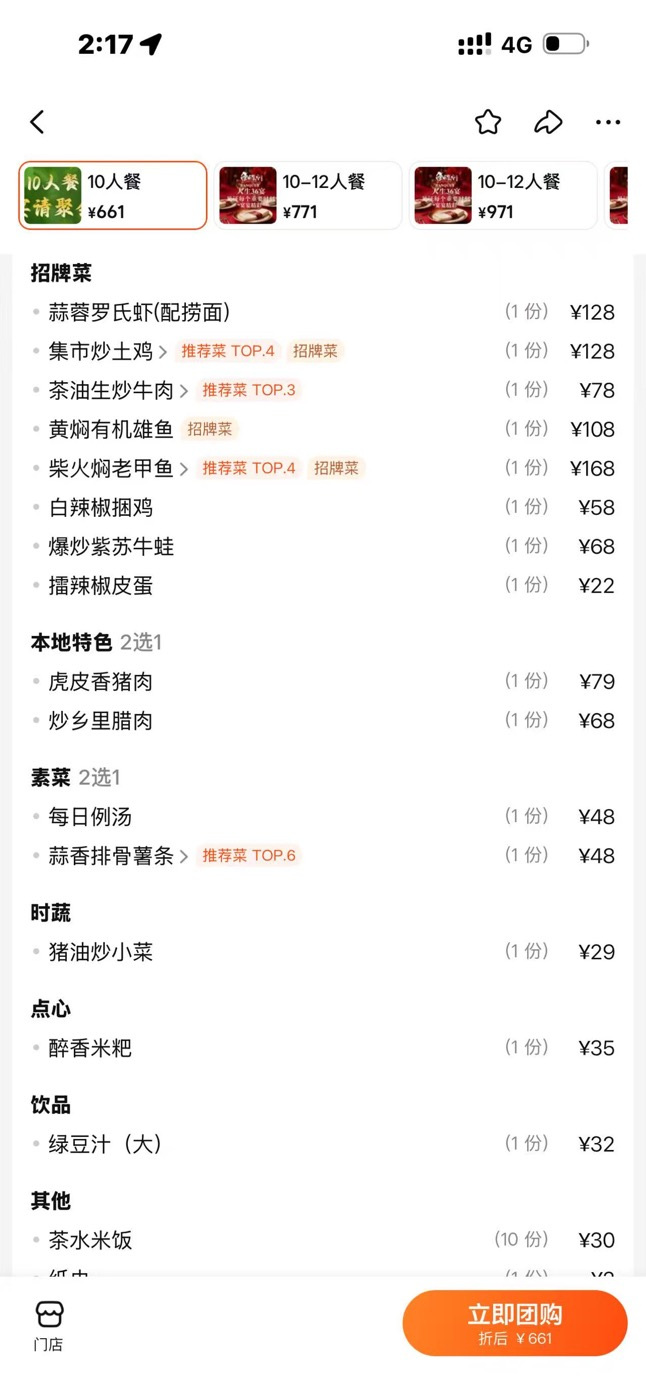
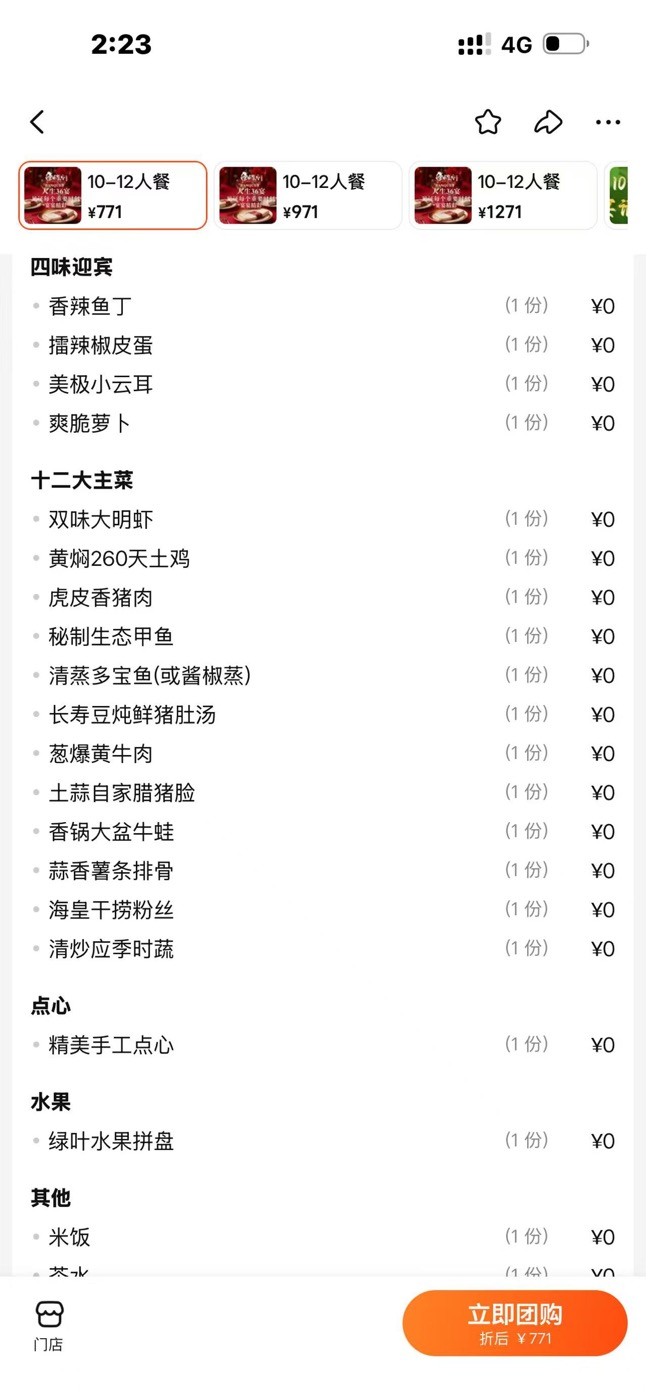
feat: 周六晚菜单换为10-12人餐套餐(771元×3桌)

diff --git a/data.js b/data.js
@@ -66,7 +66,7 @@ window.BOARD = {
     { item: "周六中午 桌餐", detail: "龙溪谷现代农庄 · 813元 × 3桌", cost: 2439, status: "confirmed", by: "我" },
     { item: "麻将台费", detail: "100元", cost: 100, status: "confirmed", by: "我" },
     { item: "茶水米饭", detail: "2元 × 30", cost: 60, status: "confirmed", by: "我" },
-    { item: "周六晚上 含浦集市", detail: "含浦集市 · 10人餐套餐 661元 × 3桌", cost: 1983, status: "confirmed", by: "我" }
+    { item: "周六晚上 含浦集市", detail: "含浦集市 · 10-12人餐套餐 771元 × 3桌", cost: 2313, status: "confirmed", by: "我" }
   ],
 
   // ---------- 周五菜单（在家用餐·暂定） ----------
@@ -94,12 +94,14 @@ window.BOARD = {
   satDinnerMenu: {
     venue: "含浦集市",
     tables: 3,
-    price: 661,
+    price: 771,
     formImg: "assets/menu-hanpu.jpg",
-    package: "10人餐套餐 · 清凉一夏",
-    dishes: ["蒜蓉罗氏虾(配捞面)","集市炒土鸡","茶油生炒牛肉","黄焖有机雄鱼","柴火焖老甲鱼","白辣椒捆鸡","爆炒紫苏牛蛙","擂辣椒皮蛋",
-             "本地特色2选1：虎皮香猪肉 / 炒乡里腊肉","素菜2选1：每日例汤 / 蒜香排骨薯条",
-             "猪油炒小菜","醉香米粑","绿豆汁(大)","茶水米饭"]
+    package: "10-12人餐套餐",
+    dishes: ["四味迎宾：香辣鱼丁 / 擂辣椒皮蛋 / 美极小云耳 / 爽脆萝卜",
+             "双味大明虾","黄焖260天土鸡","虎皮香猪肉","秘制生态甲鱼",
+             "清蒸多宝鱼（或酱椒蒸）","长寿豆炖鲜猪肚汤","葱爆黄牛肉","土蒜自家腊猪脸",
+             "香锅大盆牛蛙","蒜香薯条排骨","海皇干捞粉丝","清炒应季时蔬",
+             "精美手工点心","绿叶水果拼盘","米饭 · 茶水"]
   },
 
   // ---------- 交通 ----------
@@ -145,7 +147,7 @@ window.BOARD = {
       { item: "麻将台费",      unit: 100, qty: 1, cur: "CNY" },
       { item: "茶水米饭",      unit: 2,   qty: 30, cur: "CNY" },
       { item: "住宿费",        unit: 85,  qty: 12, cur: "CNY" },
-      { item: "周六晚上 含浦集市", unit: 661, qty: 3, cur: "CNY", note: "10人餐套餐" }
+      { item: "周六晚上 含浦集市", unit: 771, qty: 3, cur: "CNY", note: "10-12人餐套餐" }
     ]
   }
 };

diff --git a/index.html b/index.html
@@ -140,7 +140,7 @@
   <footer><span>单文件看板 · 数据在 <code>data.js</code>，改完刷新即可</span>
     <span>家人协作：待办项可在群里接龙</span></footer>
 </div>
-<script src="data.js?v=20261015e"></script>
+<script src="data.js?v=20261015f"></script>
 <script>
 const D = window.BOARD, $ = s => document.querySelector(s);
 const esc = s => String(s==null?'':s).replace(/[&<>"]/g, c=>({'&':'&amp;','<':'&lt;','>':'&gt;','"':'&quot;'}[c]));
